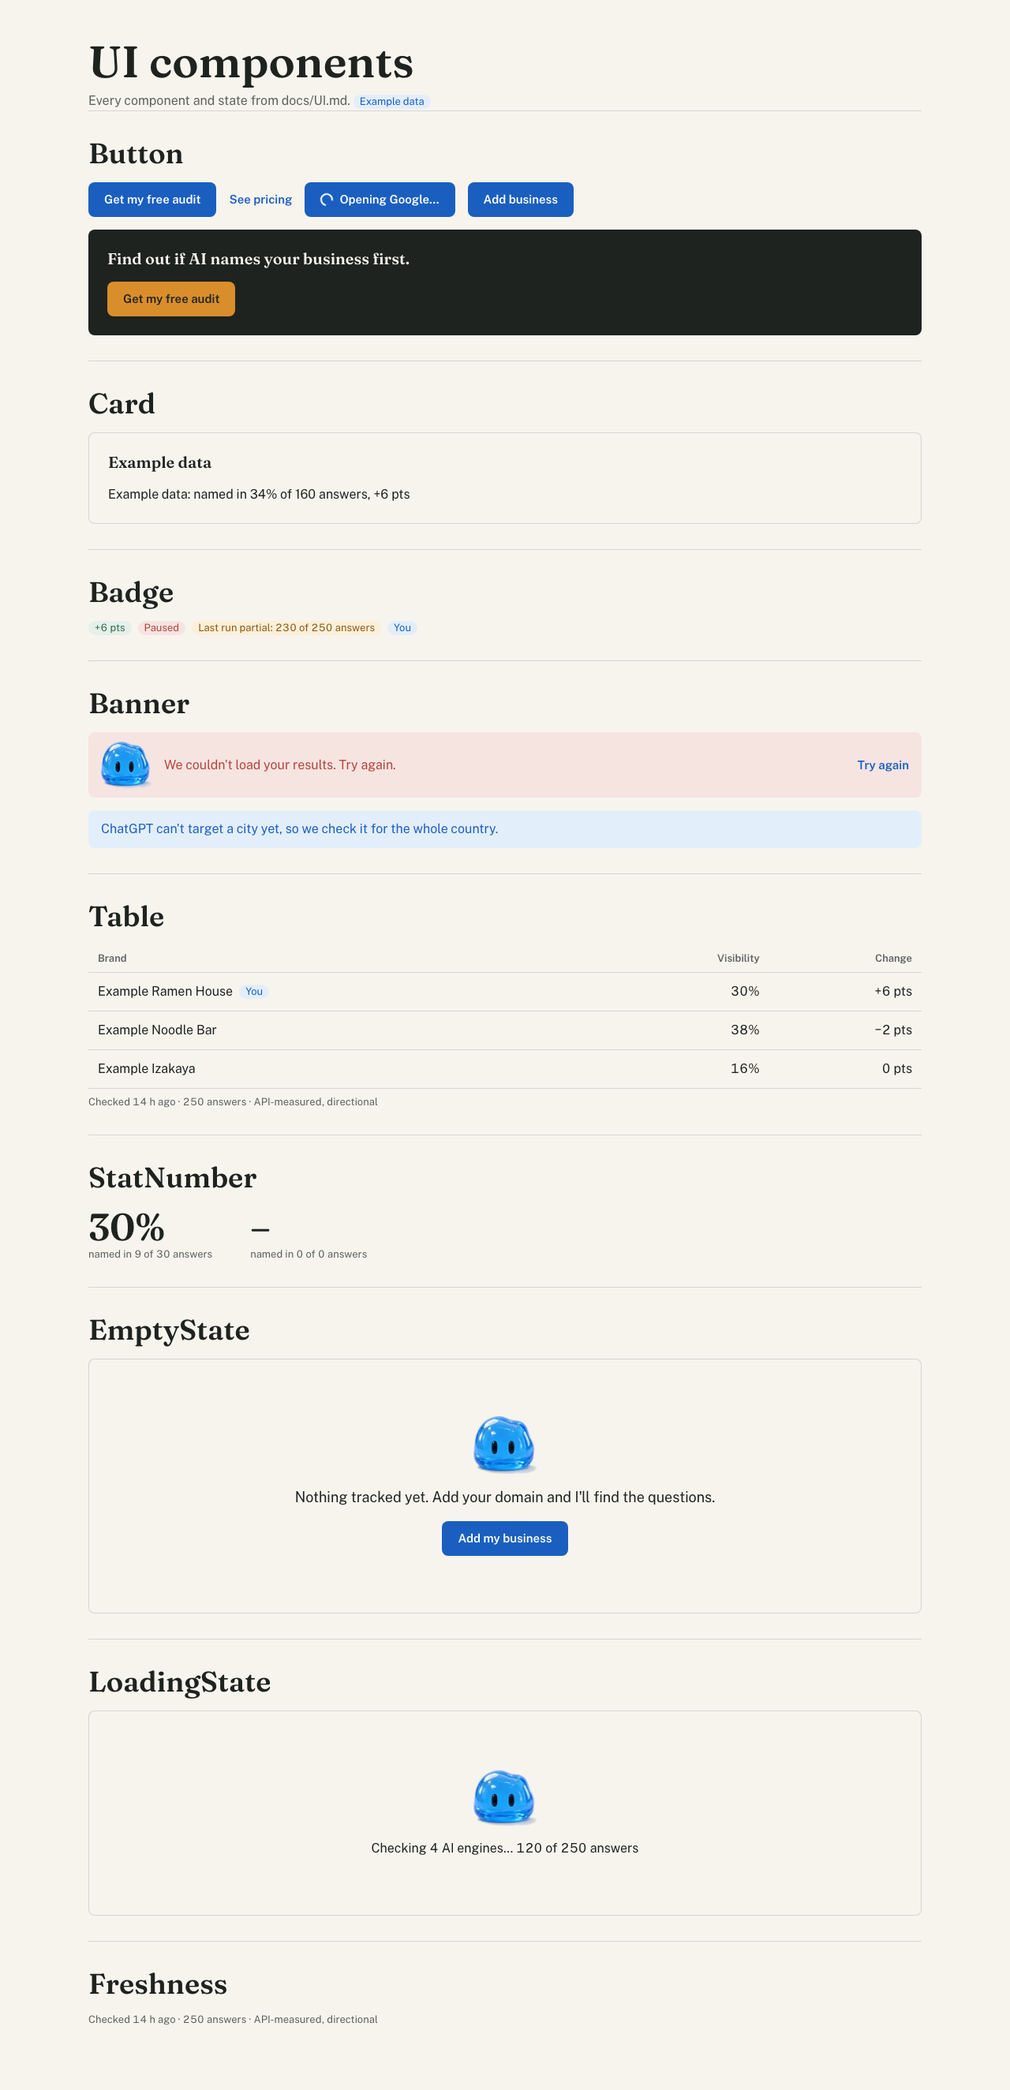
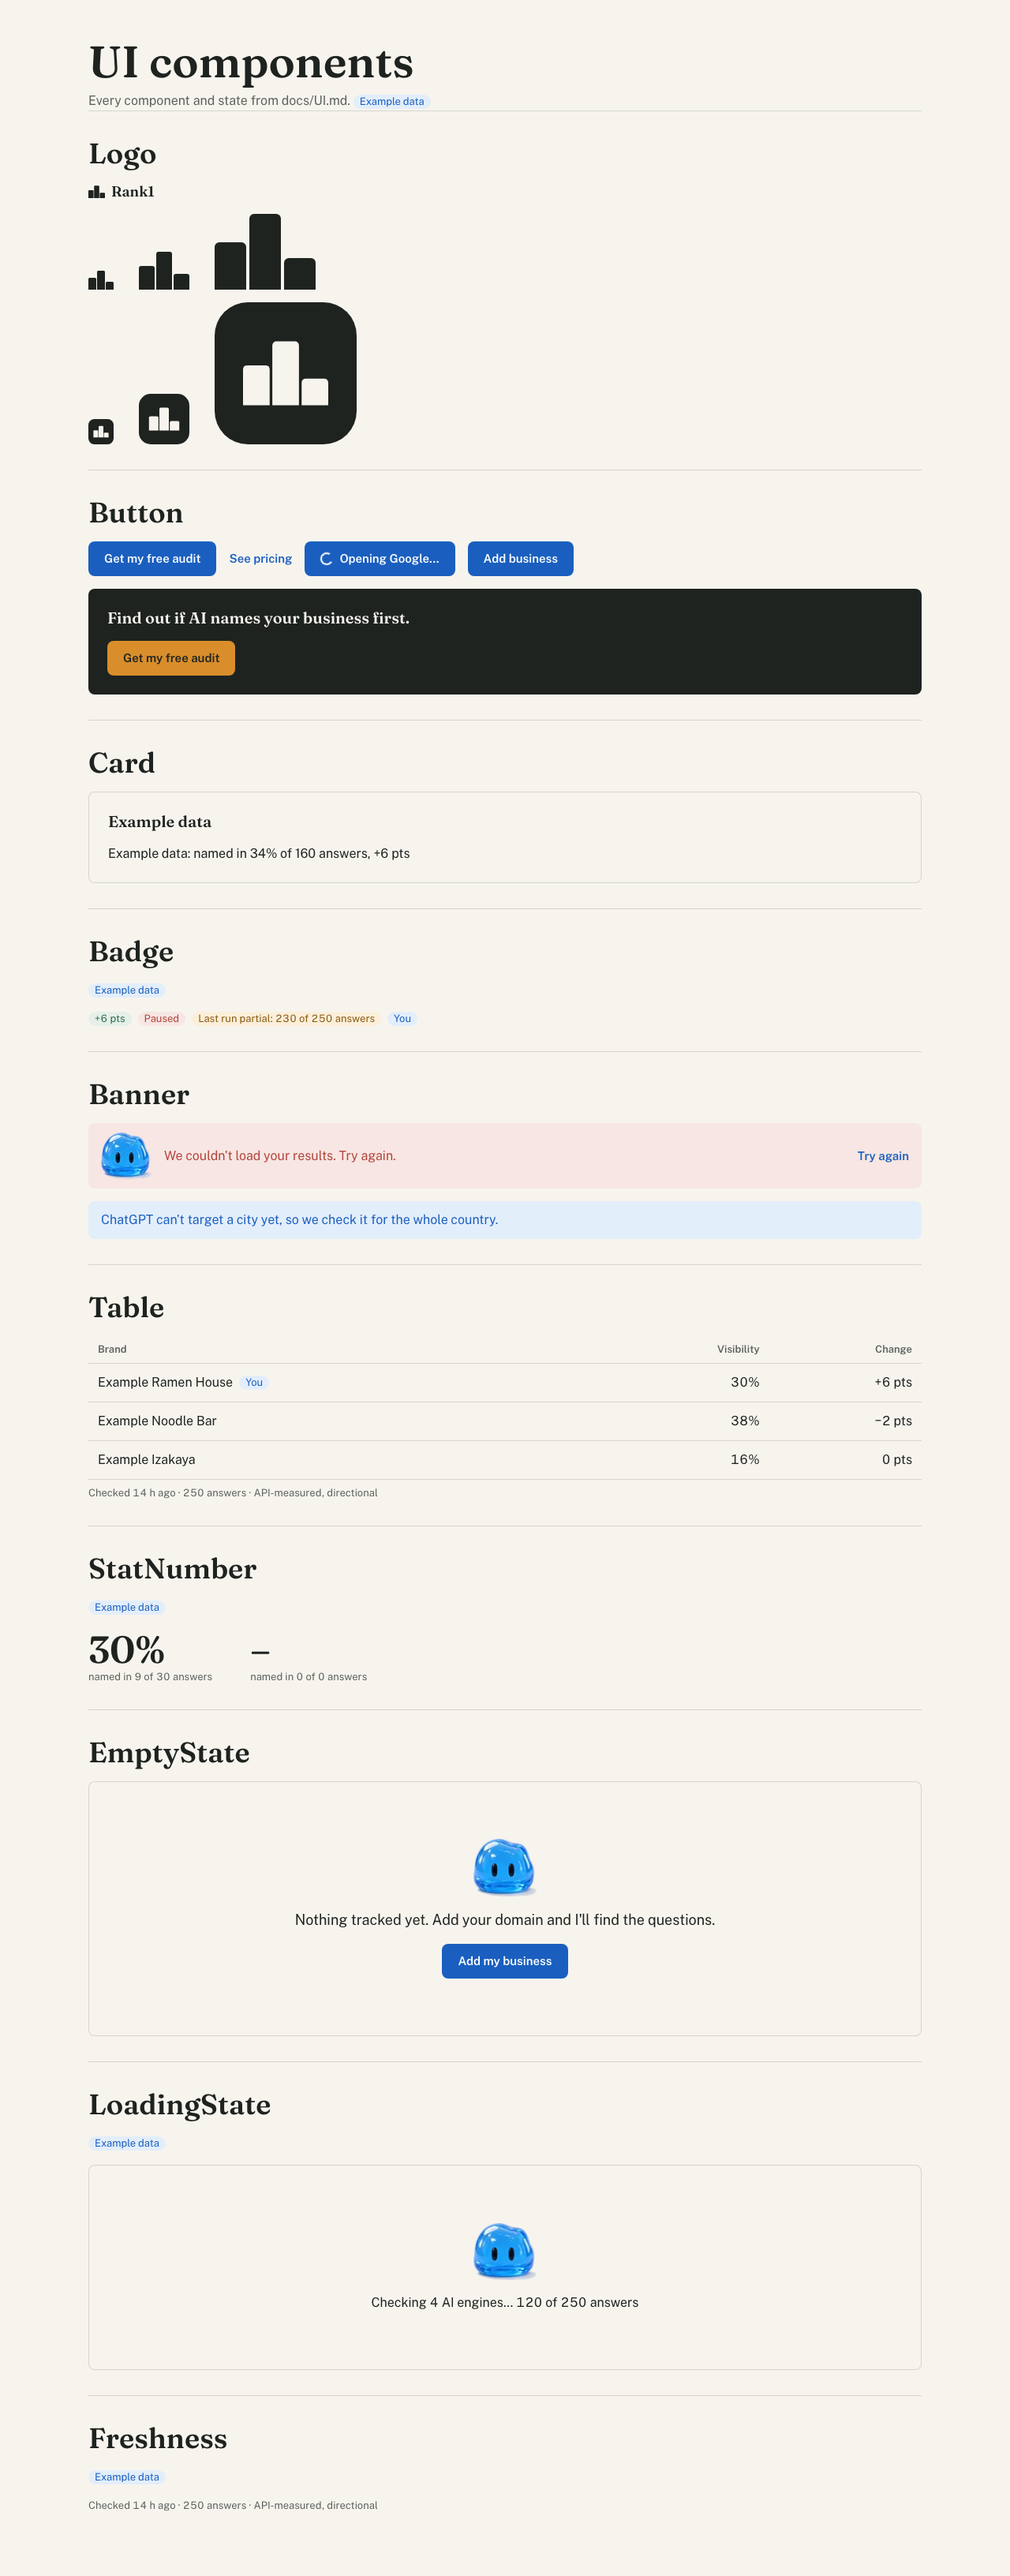
step 0: qa report (re-run)

diff --git a/docs/QA.md b/docs/QA.md
@@ -1,50 +1,58 @@
 # QA
 
-## Step 0: Set up the project
+## Step 0: Set up the project (re-run)
 
-Checked 2026-11-05 on commit 090017d (branch step-0-claude-md).
-Preview: https://rank1-62blztem2-bryan-flowhighlevels-projects.vercel.app (Vercel says target preview, git ref step-0-claude-md, sha 090017d).
+Checked 2026-11-05 on commit d864d72 (branch step-0-claude-md).
+Preview: https://rank1-c5us4op76-bryan-flowhighlevels-projects.vercel.app (Vercel API: git ref step-0-claude-md, sha d864d72, READY).
 Preview runs use VERCEL_AUTOMATION_BYPASS_SECRET from .env.local, sent as x-vercel-protection-bypass (playwright.config.ts).
 
-Result: FAIL. 2 blocking problems, listed at the end.
+Result: FAIL. 1 blocking problem, listed at the end. The axe failure from the first run is fixed.
 
 ### Commands
 
 | Command | Result |
 |---|---|
-| `pnpm test` | PASS. 5 files, 24 tests passed |
+| `pnpm test` | PASS. 7 files, 28 tests passed |
 | `pnpm typecheck` | PASS. exit 0 |
 | `pnpm lint` | PASS. exit 0 |
-| `pnpm e2e` (local, fresh `next build`) | FAIL. 4 passed, 2 failed: `dev-ui.spec.ts:4` on mobile and desktop, axe `color-contrast: .bg-errorBg.text-brick.px-2, .px-4.bg-errorBg.text-brick > .flex-1` |
-| `E2E_BASE_URL=<preview> pnpm e2e` | FAIL. Same 4 passed, same 2 failed, same axe violation |
+| `pnpm e2e` (local, `.next` deleted first, fresh `next build`) | PASS. 12 passed, 0 failed |
+| `E2E_BASE_URL=<preview> pnpm e2e` | PASS. 12 passed, 0 failed |
 
-In both failing runs every assertion before the axe line passed: one H1, all 9 section headings, paper background rgb(247, 244, 238), Fraunces on H1, Public Sans on body, scrollWidth <= viewport.
+Tests changed since the first run: tests/unit/tokens.test.ts changed only the errorBg value to #F7E6E3 (matches UI.md). New: tests/unit/ui/logo.test.tsx, tests/unit/example-data.test.ts, tests/e2e/logo.spec.ts, tests/e2e/dev-ui-example-data.spec.ts. No test deleted, skipped or weakened.
 
 ### TASKS.md step 0
 
 | # | Check | Result | Evidence |
 |---|---|---|---|
-| 1 | Next.js App Router, TS strict, Tailwind, ESLint, pnpm, Vitest, Playwright | PASS | package.json (next 16.4.5, vitest, @playwright/test); all four commands above run |
+| 1 | Next.js App Router, TS strict, Tailwind, ESLint, pnpm, Vitest, Playwright | PASS | package.json; all commands above run |
 | 2 | CLAUDE.md, TASKS.md, PROGRESS.md, HANDOFF.md, .env.example | PASS | files present in repo root |
-| 3 | .claude/agents frontend, backend, data-pipeline, billing-auth, qa | PASS | `ls .claude/agents` shows all five |
-| 4 | docs/UI.md, COPY.md, SCHEMA.md, INTEGRATIONS.md, AEO.md | PASS | `ls docs` shows all five |
-| 5 | tokens.ts + Tailwind theme, Fraunces 600, Public Sans 400/600, tabular-nums | PASS | tests/unit/tokens.test.ts 4 passed; e2e font and background assertions passed; `tabular-nums` in StatNumber, Freshness, Badge, LoadingState |
-| 6 | Button, Card, Badge, Banner, Table, StatNumber, EmptyState, LoadingState, Freshness | PASS | tests/unit/ui 20 tests passed |
-| 7 | /dev/ui shows every component and state, deployed to a Vercel preview | FAIL | Page renders and is deployed (preview /dev/ui 200 with bypass, 302 without). Its own e2e test fails on axe, see A11y below |
+| 3 | .claude/agents frontend, backend, data-pipeline, billing-auth, qa | PASS | all five present |
+| 4 | docs/UI.md, COPY.md, SCHEMA.md, INTEGRATIONS.md, AEO.md | PASS | all five present |
+| 5 | tokens.ts + Tailwind theme, Fraunces 600, Public Sans 400/600, tabular-nums | PASS | tokens.test.ts passed; e2e font and background assertions passed |
+| 6 | Button, Card, Badge, Banner, Table, StatNumber, EmptyState, LoadingState, Freshness | PASS | tests/unit/ui passed |
+| 7 | /dev/ui shows every component and state, deployed to a Vercel preview | PASS | dev-ui.spec.ts passed locally and on the preview; preview /dev/ui 200 |
 
 ### Standing checks (qa.md)
 
 | Check | Result | Evidence |
 |---|---|---|
-| Copy matches docs/COPY.md | PASS | Customer strings on /dev/ui and / are exact COPY.md strings (hero H1, meta title and description, error banner, city tooltip, empty state, loading message, partial badge, "Add business", "Opening Google…"). Section names and "UI components" are gallery labels on a page that 404s in production |
-| DO NOT USE grep | PASS | `grep -rniE` over src for each AEO.md DO NOT USE item: no text matches (only a binary hit inside public/jelly.png) |
-| Axe accessibility | FAIL | color-contrast on error Badge and error Banner: errorBg #F6E4E1 with brick #B3443A is 4.495:1, under 4.5:1. Known; token fix waits on Jeun |
-| 375px has no horizontal scroll | PASS | preview: scrollWidth 375 at 375px, 1280 at 1280px; e2e scroll assertion passed on mobile locally and on preview |
-| Tap targets >= 44px | PASS | `dev-ui.spec.ts:28` passed on both projects, local and preview |
-| No secrets in client bundle | PASS | After the local build (19 files in .next/static): no match for `sk_(test|live)_`, `whsec_`, `service_role`, JWT `eyJhbGciOi`, `pplx-`, `re_`, `GOCSPX-`; no server-only env name from .env.example; neither .env.local value present |
-| No fake numbers | FAIL | Gallery numbers must come from src/app/dev/ui/example-data.ts. Leaderboard, StatNumber and Freshness do. These are typed into page.tsx instead: line 53 "34% of 160 answers, +6 pts", line 59 "+6 pts", line 61 "230 of 250 answers", line 112 "120 of 250 answers". Lines 59, 61 and 112 have no "Example data" label of their own |
-| Sample size + freshness shown | PASS | StatNumber shows "named in 9 of 30 answers"; Freshness "Checked 14 h ago · 250 answers · API-measured, directional" under the table and in its own section |
-| /dev/ui hidden in production | PASS | production deployment rank1-i4qctuh3f: /dev/ui 404, / 200 |
+| Copy matches docs/COPY.md | PASS | Customer strings are exact COPY.md strings. Logo wordmark "Rank1" matches the UI.md Logo row (Jeun 2026-11-05) |
+| DO NOT USE grep | PASS | `grep -rniIE` over src and public for each AEO.md DO NOT USE item: no match |
+| Axe accessibility | PASS | dev-ui.spec.ts axe assertion passed on mobile and desktop, locally and on the preview (errorBg #F7E6E3) |
+| 375px has no horizontal scroll | PASS | preview: scrollWidth 375 at 375px, 1280 at 1280px |
+| Tap targets >= 44px | PASS | dev-ui.spec.ts:28 passed, local and preview |
+| No secrets in client bundle | PASS | Fresh local build (20 files in .next/static): no match for `sk_(test|live)_`, `whsec_`, `service_role`, JWT `eyJhbGciOi`, `pplx-`, `re_`, `GOCSPX-`; no server-only env name from .env.example; neither .env.local value present |
+| No fake numbers | FAIL | Badge, Table, StatNumber, LoadingState and Freshness now use example-data.ts, and every section is labeled Example data (dev-ui-example-data.spec.ts passed). One string is still typed in: src/app/dev/ui/page.tsx:78 "Example data: named in 34% of 160 answers, +6 pts". The numbers in the Logo section (lines 50, 56) are pixel sizes, not stats |
+| Sample size + freshness shown | PASS | StatNumber "named in 9 of 30 answers"; Freshness "Checked 14 h ago · 250 answers · API-measured, directional" |
+| /dev/ui hidden in production | PASS | production deployment rank1-i4qctuh3f: /dev/ui 404 |
+
+### Favicon (preview)
+
+| Check | Result | Evidence |
+|---|---|---|
+| Head icon link loads /icon.svg with 200 | PASS | `/` and `/dev/ui` head: `<link rel="icon" href="/icon.svg?icon.02pnslip4xkyc.svg" sizes="any" type="image/svg+xml">`, which returns 200 image/svg+xml. /icon.svg returns 200 |
+| Apple icon | PASS | `<link rel="apple-touch-icon" href="/apple-icon.png?...">` 180x180, 200 image/png |
+| /favicon.ico returns 404 | PASS | 404; src/app/favicon.ico deleted; logo.spec.ts:23 passed |
 
 ### Screenshots (preview /dev/ui, full page)
 
@@ -53,5 +61,4 @@ In both failing runs every assertion before the axe line passed: one H1, all 9 s
 
 ### Blocking problems
 
-1. Axe color-contrast fails on the error Badge and error Banner. src/components/ui/Badge.tsx:5 and src/components/ui/Banner.tsx:11 use bg-errorBg + text-brick (4.495:1). Token choice is with Jeun.
-2. Hardcoded gallery numbers not from example-data.ts: src/app/dev/ui/page.tsx:53, :59, :61, :112.
+1. Hardcoded gallery numbers: src/app/dev/ui/page.tsx:78 ("34% of 160 answers, +6 pts") is not built from example-data.ts. It is the exact COPY.md hero card string and labeled Example data, but its numbers don't come from example-data.ts, which the gallery numbers rule requires.
